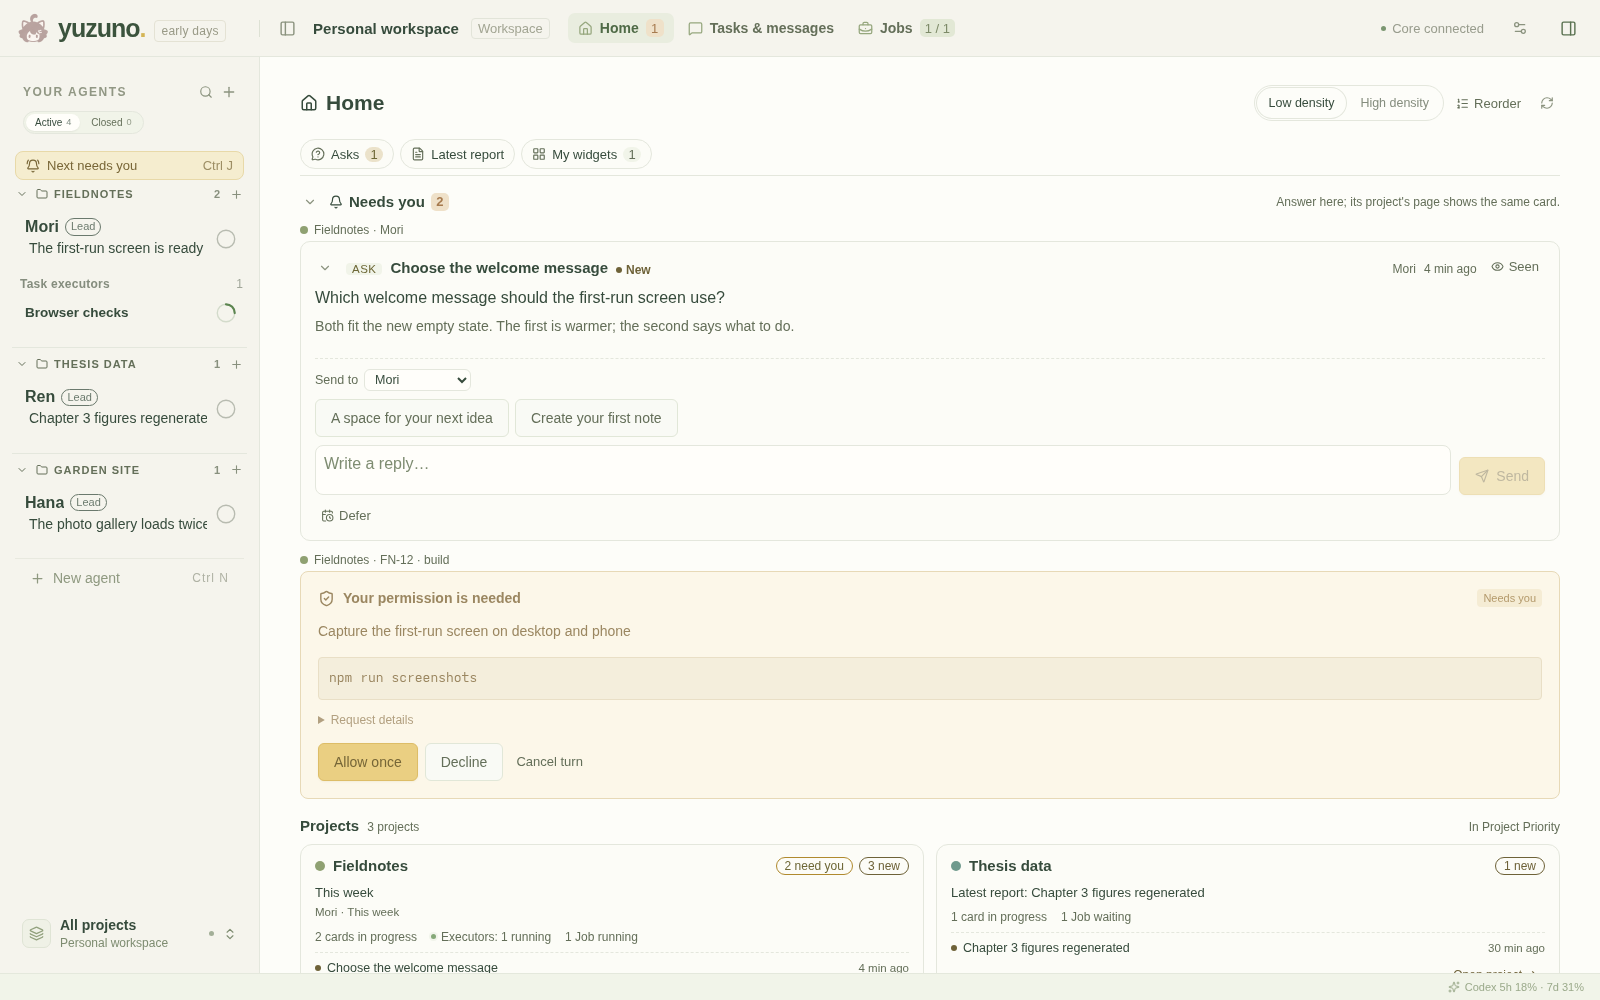
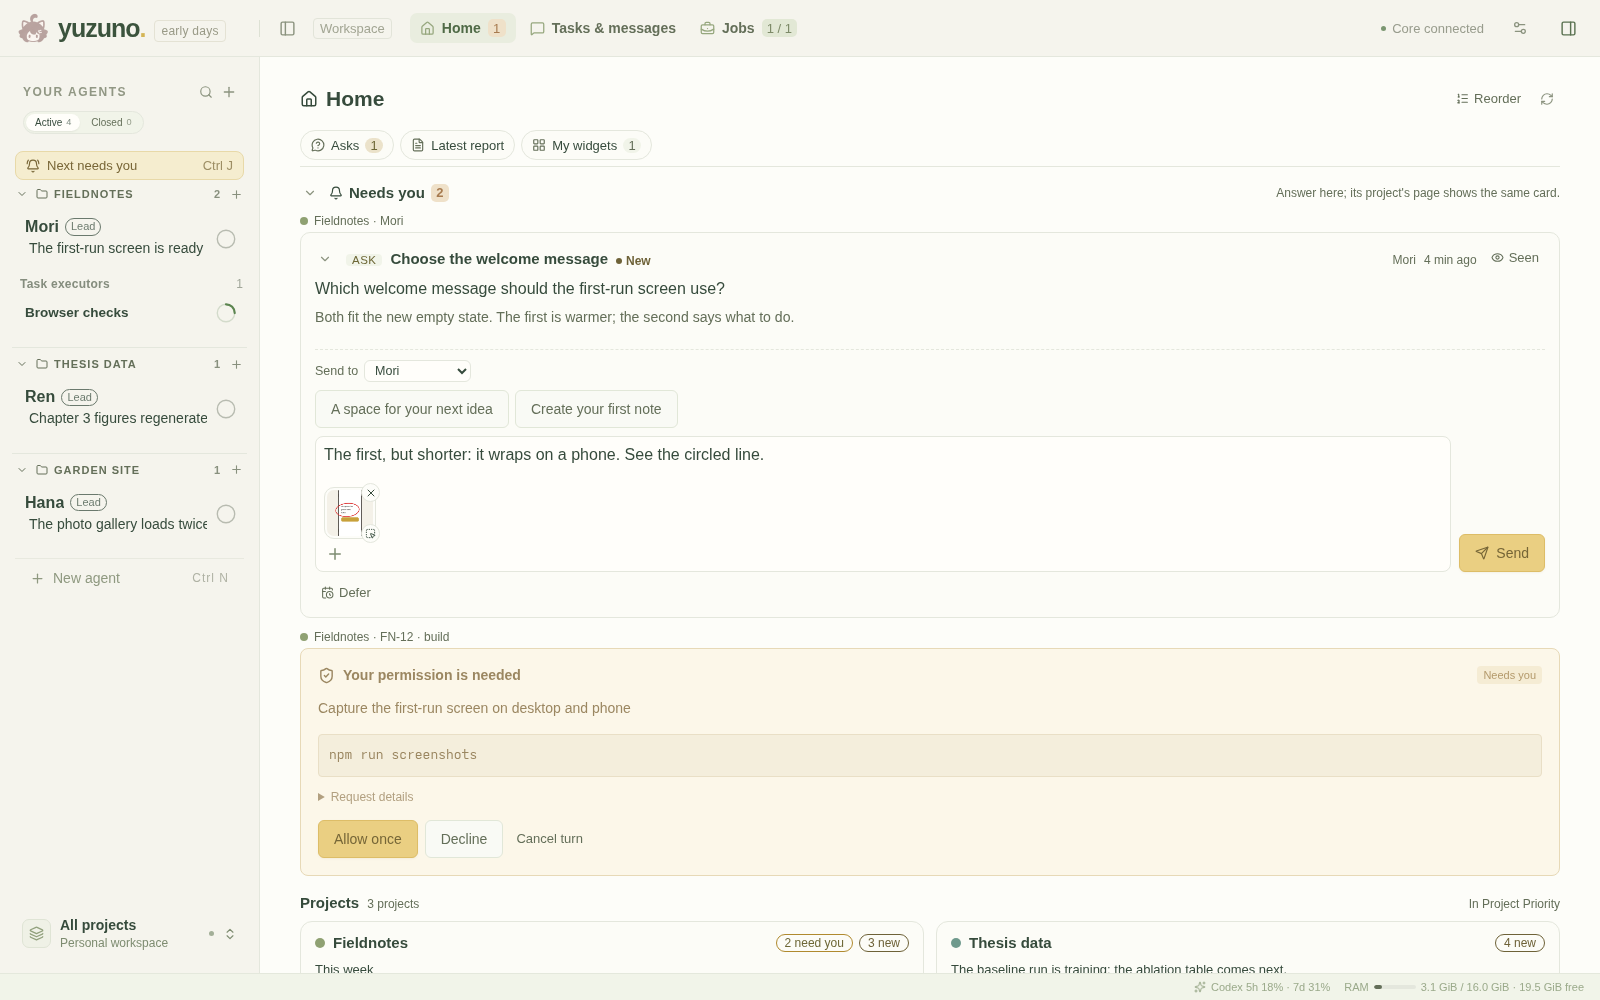
[YN-115] docs: README 截图：Home 换新，加项目页（三列卡片、附件）
- home.png 按 main 0a181a1 的界面重拍：没有了密度切换，提问的文字回复附了一张标注过的草图。
- 新加 project.png（1600 × 1430）：Thesis data 项目页，卡片三列、一张每天 07:00 刷新的卡片，
  对项目说的输入框附了一张草图和一个日志文件。
- conversation.png、jobs.png 不动：从 0a181a1 重拍只差顶栏不再写 Workspace 名和示例时刻。
- readme-screenshots.mjs：草图由浏览器 canvas 画，日志是脚本写的三行文本，上传和读取都只答这两样；
  Thesis data 给六张带 summary 的卡片；照旧检查页面出错、越出合成数据的请求和横向溢出。

diff --git a/docs/images/README.md b/docs/images/README.md
@@ -1,14 +1,15 @@
 # README screenshots
 
-These images show the production Yuzuno web UI with **fictional sample data**. The Projects Fieldnotes, Thesis data and Garden site, their Agents Mori, Ren, Hana and the executor FN-12, their conversations, cards, tasks, Jobs and resource figures are fixtures. No real Workspace, account, model, repository contents or private conversations are loaded.
+These images show the production Yuzuno web UI with **fictional sample data**. The Projects Fieldnotes, Thesis data and Garden site, their Agents Mori, Ren, Hana and the executor FN-12, their conversations, cards, tasks, Jobs and resource figures are fixtures. The attached sketch is drawn by the capture script in the browser's canvas, and the attached log is a three-line text it writes. No real Workspace, account, model, repository contents, screen captures or private conversations are loaded.
 
 | Image | View |
 | --- | --- |
-| [home.png](home.png) | Home: a question and a permission waiting for you, and each Project at a glance |
+| [home.png](home.png) | Home: a question with a reply and a marked-up sketch attached, a permission waiting for you, and each Project at a glance |
+| [project.png](project.png) | A Project's page: its cards in three columns, one refreshing every morning, and a request with a sketch and a log file attached |
 | [conversation.png](conversation.png) | An Agent conversation and tool activity |
 | [jobs.png](jobs.png) | Running, queued and completed local Jobs |
 
-The current images use the UI of main at `5dc0d0c` (2026-11-14), with the redesigned Home (YN-86); YN-115 made them. The first ones used `79623ac` of the private development repository. Each image is 1600 × 1000 pixels, captured directly in Chromium without compositing, hidden UI errors or injected styling. The character images in them are under the Apache License 2.0 like the rest of the project ([asset notes](../../web/src/assets/README.md)); the font keeps its own license.
+YN-115 made the current images. `home.png` and `project.png` use the UI of main at `0a181a1` (2026-11-15; core.35 plus later fixes). `conversation.png` and `jobs.png` use main at `5dc0d0c` (2026-11-14): captured again from `0a181a1`, they differed only in the top bar, which no longer names the Workspace, and in the sample clock times. The first images used `79623ac` of the private development repository. Each image is 1600 × 1000 pixels, except `project.png` at 1600 × 1430, so that its cards show below the talk box; all are captured directly in Chromium without compositing, hidden UI errors or injected styling. The character images in them are under the Apache License 2.0 like the rest of the project ([asset notes](../../web/src/assets/README.md)); the font keeps its own license.
 
 ## Refresh the images
 
@@ -22,4 +23,4 @@ YUZUNO_UI_DIST="$PWD/web/dist" node web/tools/readme-screenshots.mjs
 
 The script uses `playwright-core` from the Web dependencies and defaults to `/usr/sbin/chromium`. Set `YUZUNO_BROWSER_BIN` for another Chromium executable; `YUZUNO_PLAYWRIGHT_MODULE` can point to an existing installed `playwright-core` package. `YUZUNO_UI_DIST` can also point to an isolated production build, and `YUZUNO_SCREENSHOT_OUT` to another folder for the images.
 
-All browser requests are served from the build or explicit API fixtures; requests to other hosts are blocked. The script checks for UI exceptions, unexpected requests and page overflow before capture. Inspect all three images after running it, and update the recorded source revision above. When working inside Yuzuno, run the build and browser through a managed Job.
+All browser requests are served from the build or explicit API fixtures; requests to other hosts are blocked. The script checks for UI exceptions, unexpected requests and page overflow before capture. Inspect all four images after running it, and update the recorded source revision above. When working inside Yuzuno, run the build and browser through a managed Job.
